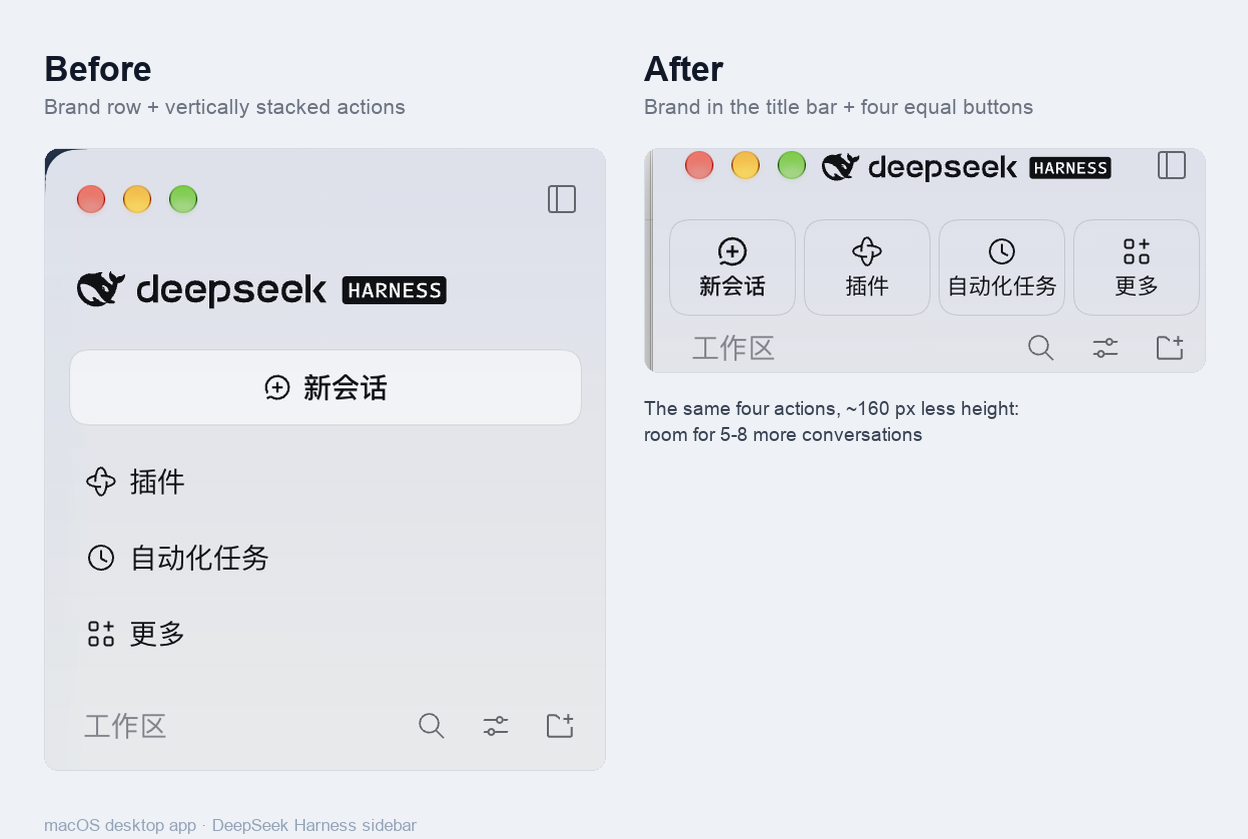
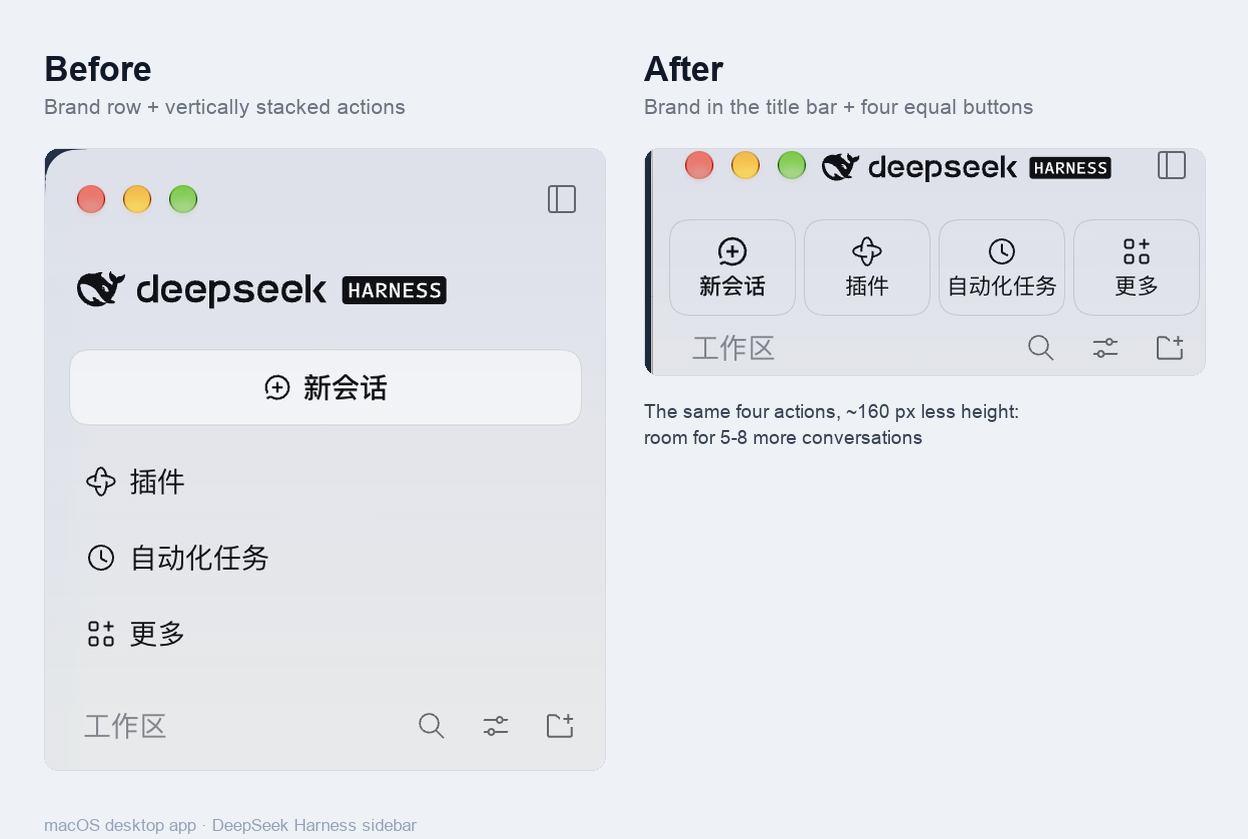
Support the DSH 0.2.2-rc.3 sidebar layout

Changed region(s): [[0.5, 0.4648, 0.8125, 0.5268], [0.5, 0.1859, 0.5312, 0.4338]]

diff --git a/client.js b/client.js
@@ -1,7 +1,7 @@
 /**
  * Client half of the sidebar-compact plugin.
  *
- * DeepSeek Harness 0.2.2-rc.2 restructured the expanded sidebar: the panel list
+ * DeepSeek Harness 0.2.2-rc.2 and rc.3 restructured the expanded sidebar: the panel list
  * and the workspace browser now live inside a `scrollRegion` / `scrollArea`
  * grid instead of being direct children of the sidebar column. This version
  * targets that layout:
@@ -62,8 +62,8 @@ ${SCOPE} > div[class*="_logoRow"] > span[class*="_brand"] {
   transform-origin: left center !important;
 }
 
-/* Action cell 1: New session, overlaid on the first quarter of the fixed action
-   row (top 52 px = below the title-bar strip; width = one of four grid cells). */
+/* Action cell 1 on 0.2.2-rc.2: the New session button is a direct child of the
+   sidebar column. (rc.3 wraps it in the row below, so this block is inert there.) */
 ${SCOPE} > button[class*="_newSession"] {
   position: absolute !important;
   top: 52px !important;
@@ -112,6 +112,77 @@ ${SCOPE} > button[class*="_newSession"] span[class*="_newSessionShortcut"] {
   display: none !important;
 }
 ${SCOPE} > button[class*="_newSession"]:hover {
+  background: var(--dsw-alias-interactive-bg-hover) !important;
+}
+
+/* Action cell 1: New session. Since rc.3 the button sits inside a
+   newSessionRow wrapper (the sidebar.session.action HOC slot). Position the
+   wrapper in the first quarter of the fixed action row and let the inner button
+   fill it. */
+${SCOPE} > div[class*="_newSessionRow"] {
+  position: absolute !important;
+  top: 52px !important;
+  left: 8px !important;
+  width: calc((100% - 28px) / 4) !important;
+  height: 48px !important;
+  margin: 0 !important;
+  padding: 0 !important;
+  display: flex !important;
+  align-items: stretch !important;
+  gap: 0 !important;
+  z-index: 3 !important;
+}
+${SCOPE} > div[class*="_newSessionRow"] > [data-slot] {
+  display: flex !important;
+  width: 100% !important;
+  height: 100% !important;
+  min-width: 0 !important;
+}
+${SCOPE} > div[class*="_newSessionRow"] button[class*="_newSession"] {
+  box-sizing: border-box !important;
+  width: 100% !important;
+  height: 100% !important;
+  min-height: 0 !important;
+  margin: 0 !important;
+  padding: 2px 4px !important;
+  border: 0.5px solid var(--dsw-alias-border-l3) !important;
+  border-radius: var(--dsw-radius-md) !important;
+  background: transparent !important;
+  box-shadow: none !important;
+  color: var(--dsw-alias-label-primary) !important;
+  display: flex !important;
+  flex-direction: column !important;
+  justify-content: center !important;
+  align-items: center !important;
+  gap: 2px !important;
+  overflow: hidden !important;
+}
+${SCOPE} > div[class*="_newSessionRow"] button[class*="_newSession"] > span[class*="_newSessionLabelMask"] {
+  flex: 0 0 auto !important;
+  width: 100% !important;
+  min-width: 0 !important;
+}
+${SCOPE} > div[class*="_newSessionRow"] button[class*="_newSession"] span[class*="_newSessionContent"] {
+  width: 100% !important;
+  flex-direction: column !important;
+  justify-content: center !important;
+  align-items: center !important;
+  gap: 2px !important;
+}
+${SCOPE} > div[class*="_newSessionRow"] button[class*="_newSession"] span[class*="_newSessionContent"] > svg {
+  width: 16px !important;
+  height: 16px !important;
+}
+${SCOPE} > div[class*="_newSessionRow"] button[class*="_newSession"] span[class*="_newSessionLabel"] {
+  max-width: 100% !important;
+  font-size: 11px !important;
+  font-weight: 500 !important;
+  line-height: 14px !important;
+}
+${SCOPE} > div[class*="_newSessionRow"] button[class*="_newSession"] span[class*="_newSessionShortcut"] {
+  display: none !important;
+}
+${SCOPE} > div[class*="_newSessionRow"] button[class*="_newSession"]:hover {
   background: var(--dsw-alias-interactive-bg-hover) !important;
 }
 

diff --git a/README.md b/README.md
@@ -35,11 +35,13 @@ toggle).
 
 ## Compatibility
 
-- Tested with DeepSeek Harness **0.2.2-rc.2**.
+- Tested with DeepSeek Harness **0.2.2-rc.3**; the 0.2.2-rc.2 layout is also
+  supported.
 - `engines.dsh` is `>=0.2.2-rc.2 <0.3.0-0`.
 - DSH 0.2.2-rc.2 moved the global panel list and the workspace browser into the
-  sidebar's new scroll area; version 1.2.0 targets that structure. The older
-  0.2.2-rc.1 sidebar layout is not supported.
+  sidebar's new scroll area, and 0.2.2-rc.3 wrapped the New session button in a
+  `newSessionRow` slot. Both shapes are handled. The older 0.2.2-rc.1 sidebar
+  layout is not supported.
 - If a DSH app update ever stops the plugin from applying, re-enable it once in the
   plugin manager. App updates have been observed rewriting the profile's
   `dsh.profile.bundles` list and dropping local bundles from it.
